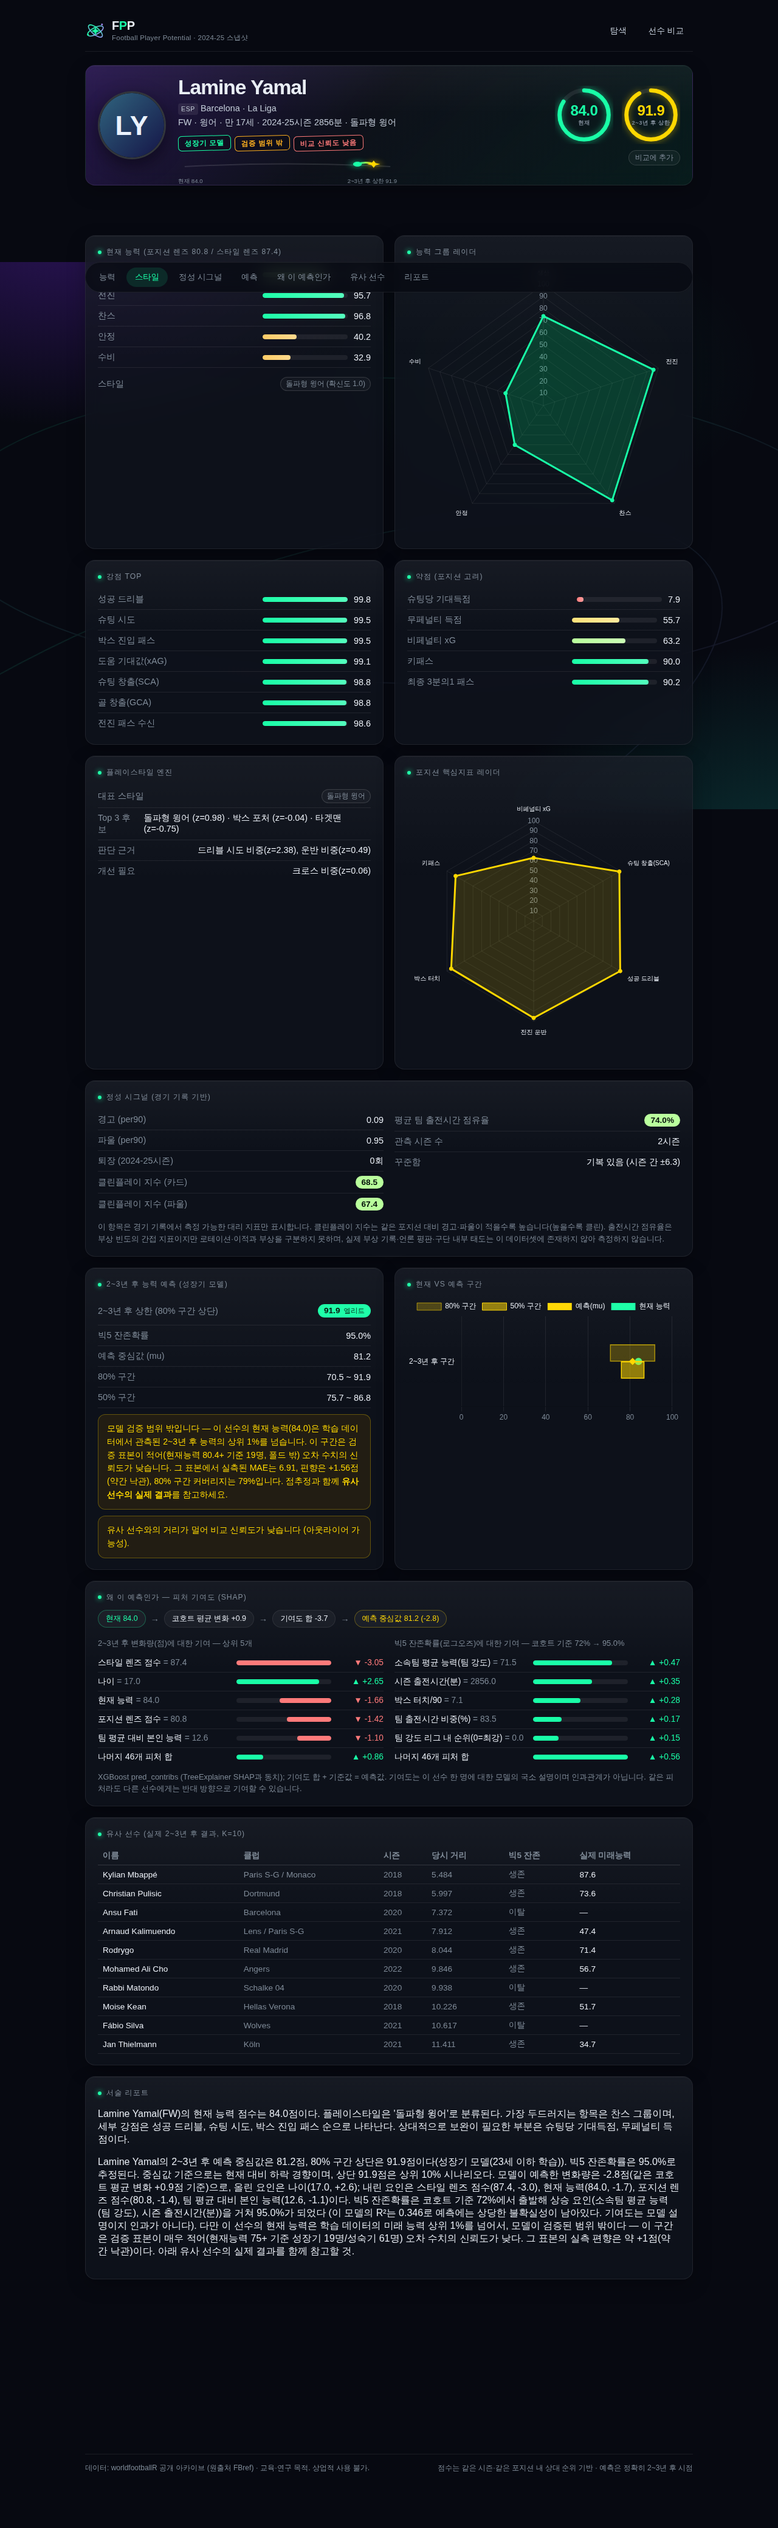
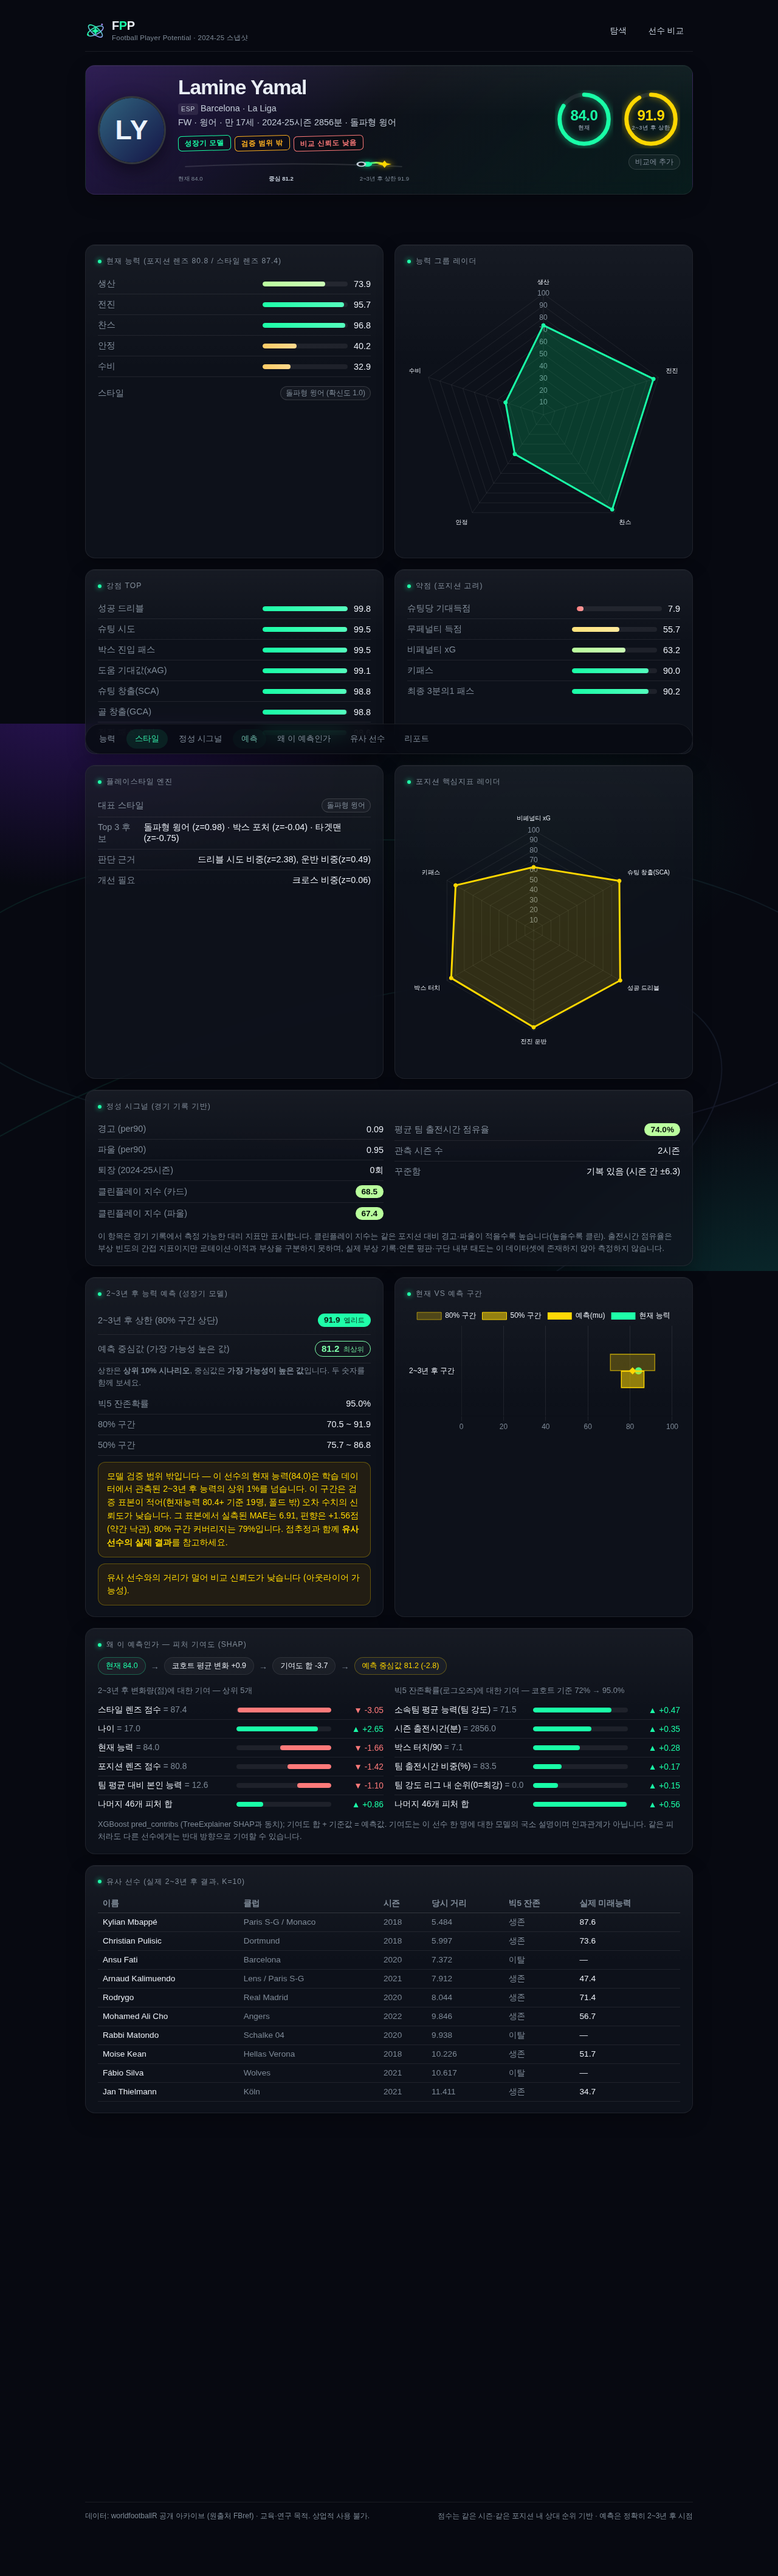
Show the predicted centre value next to the ceiling so the interval is read as a range
The ceiling was the only forecast number visible on cards and in the ranking, which
invites reading the top of the 80% interval as the prediction. The orbit gauge now
carries three markers — current, centre, ceiling — cards print the centre under the
gauge, the ranking table prints it under the ceiling badge, and the detail page gives
it an outline badge directly beneath the ceiling with one line saying which is which:
the ceiling is the top-10% scenario, the centre is the most likely value. The ceiling
keeps the visual lead; the centre is no longer missing.

Claude-Session: https://claude.ai/code/session_015oEdZs9gEVTnLhjkrU9pxa

diff --git a/docs/assets/common.js b/docs/assets/common.js
@@ -94,23 +94,35 @@ function flagChip(iso) {
   return iso ? `<span class="flag"><span class="iso">${iso}</span></span>` : "";
 }
 
-// ── 궤도 게이지: 현재(초록 점) → 2~3년 후 상한(금색 별) 을 한 궤도 위에 ──
+// ── 궤도 게이지: 현재(초록 점) → 중심값(속 빈 원) → 2~3년 후 상한(금색 별) ──
+// 상한만 보고 판단하지 않도록 중심값(가장 가능성 높은 값)을 같은 궤도 위에 함께 찍는다.
 function orbitGaugeHtml(now, fut, opts) {
   const o = opts || {};
+  const mu = o.mu === null || o.mu === undefined ? null : o.mu;
   const W = 200, H = 26, y = 14;
   const x = (v) => 6 + Math.max(0, Math.min(100, v ?? 0)) / 100 * (W - 12);
   const hasFut = fut !== null && fut !== undefined;
   const a = x(now), b = hasFut ? x(fut) : a;
   const lo = Math.min(a, b), hi = Math.max(a, b);
+  const aria = `현재 ${fmt1(now)}${mu !== null ? `, 예측 중심값 ${fmt1(mu)}` : ""}${hasFut ? `, 2~3년 후 상한 ${fmt1(fut)}` : ""}`;
+  let lbls = "";
+  if (o.labels !== false) {
+    const mid = mu !== null ? `<span class="mid">중심 ${fmt1(mu)}</span>` : "";
+    // "mu-only": 카드처럼 현재·상한이 이미 큰 숫자로 있는 곳에서는 중심값만 덧붙인다.
+    lbls = o.labels === "mu-only"
+      ? (mu !== null ? `<div class="lbls mu-only">${mid}</div>` : "")
+      : `<div class="lbls"><span>현재 ${fmt1(now)}</span>${mid}<span>${hasFut ? `2~3년 후 상한 ${fmt1(fut)}` : "예측 없음"}</span></div>`;
+  }
   return `
-    <div class="orbit-gauge" role="img" aria-label="현재 ${fmt1(now)}${hasFut ? `, 2~3년 후 상한 ${fmt1(fut)}` : ""}">
+    <div class="orbit-gauge" role="img" aria-label="${aria}">
       <svg viewBox="0 0 ${W} ${H}" preserveAspectRatio="none">
         <path class="track" d="M6 ${y} Q ${W / 2} ${y - 9} ${W - 6} ${y}"/>
         ${hasFut ? `<path class="arc" d="M${lo} ${y - 4} Q ${(lo + hi) / 2} ${y - 9} ${hi} ${y - 4}"/>` : ""}
         <circle class="dot-now" cx="${a}" cy="${y - 4}" r="4"/>
+        ${mu !== null ? `<circle class="dot-mu" cx="${x(mu)}" cy="${y - 4}" r="3.4"><title>예측 중심값 ${fmt1(mu)}</title></circle>` : ""}
         ${hasFut ? `<path class="dot-fut" transform="translate(${b} ${y - 4})" d="M0 -6 L1.8 -1.8 L6 0 L1.8 1.8 L0 6 L-1.8 1.8 L-6 0 L-1.8 -1.8 Z"/>` : ""}
       </svg>
-      ${o.labels === false ? "" : `<div class="lbls"><span>현재 ${fmt1(now)}</span><span>${hasFut ? `2~3년 후 상한 ${fmt1(fut)}` : "예측 없음"}</span></div>`}
+      ${lbls}
     </div>`;
 }
 
@@ -140,7 +152,7 @@ function playerCardHtml(p, roleLabelFn) {
           <span class="lbl">현재</span><span class="val g">${fmt1(p.ability)}</span><span class="tier">${tierText(p.ability)}</span>
         </div>
         <button type="button" class="btn-mini pc-cmp" data-cmp-id="${p.fbref_id}" data-cmp-name="${p.name}" aria-pressed="false">비교</button>
-        <div class="pc-num" title="2~3년 후 능력의 80% 신뢰구간 상단 — 최댓값이 아니라 상위 10% 시나리오">
+        <div class="pc-num" title="2~3년 후 능력의 80% 신뢰구간 상단 — 최댓값이 아니라 상위 10% 시나리오. 가장 가능성이 높은 값은 아래 '중심'입니다.">
           <span class="lbl">2~3년 후 상한</span><span class="val ${futVal != null ? "y" : "n"}">${futVal != null ? fmt1(futVal) : "—"}</span><span class="tier">${futVal != null ? tierText(futVal) : "예측 없음"}</span>
         </div>
       </div>
@@ -148,7 +160,7 @@ function playerCardHtml(p, roleLabelFn) {
       <div class="pc-name">${p.name}</div>
       <div class="pc-meta">${flagChip(p.nation)}<b>${p.pos_primary}</b>${role ? `<span>${role}</span>` : ""}<span>· ${p.age ?? "—"}세</span></div>
       <div class="pc-meta"><span>${p.squad || "—"}</span></div>
-      <div class="pc-orbit">${orbitGaugeHtml(p.ability, futVal, { labels: false })}</div>
+      <div class="pc-orbit">${orbitGaugeHtml(p.ability, futVal, { mu: p.mu, labels: p.mu != null ? "mu-only" : false })}</div>
       ${tags.length ? `<div class="pc-tags">${tags.join("")}</div>` : ""}
     </a>`;
 }

diff --git a/docs/assets/app.js b/docs/assets/app.js
@@ -8,7 +8,7 @@ const SORT_MODES = {
 };
 const SORT_HINTS = {
   ability: "",
-  ceiling: "예측 대상만 표시됩니다. 80% 신뢰구간의 상단값이며, 실제 계산된 구간입니다(임의로 올린 숫자가 아님). 예측 시점은 '커리어 전성기'가 아니라 정확히 2~3년 후입니다.",
+  ceiling: "예측 대상만 표시됩니다. 80% 신뢰구간의 상단값이며, 실제 계산된 구간입니다(임의로 올린 숫자가 아님). 상한은 상위 10% 시나리오이고, 함께 표시되는 <b>중심값이 가장 가능성 높은 값</b>입니다. 예측 시점은 '커리어 전성기'가 아니라 정확히 2~3년 후입니다.",
   headroom: "2~3년 후 상한(80% 구간 상단)에서 현재 능력을 뺀 값입니다. 값이 클수록 모델이 현재보다 더 올라갈 여지가 있다고 보는 선수입니다.",
 };
 const AGE_BANDS = {
@@ -64,7 +64,11 @@ function valueCell(p, mode) {
     const t = v > 5 ? "상승 여지 큼" : v > 0 ? "상승 여지" : v > -3 ? "유지" : "하락 위험";
     return `<span class="badge ${deltaCls(v)}" aria-label="상승 여력 ${sign}${fmt1(v)}, ${t}" title="${t}">${sign}${fmt1(v)}<span class="tier">${t}</span></span>`;
   }
-  return mode === "ceiling" ? scoreBadge(p.ceiling, "2~3년 후 상한") : scoreBadge(p.ability, "현재능력");
+  if (mode === "ceiling") {
+    return scoreBadge(p.ceiling, "2~3년 후 상한")
+      + (p.mu != null ? `<div class="sub-val" title="예측 중심값 — 가장 가능성이 높은 값">중심 ${fmt1(p.mu)}</div>` : "");
+  }
+  return scoreBadge(p.ability, "현재능력");
 }
 function roleLabel(code) {
   return META && META.role_labels && code ? META.role_labels[code] || code : (code || "");
@@ -159,7 +163,7 @@ function applyStateToControls() {
   });
   const hintEl = document.getElementById("sortHint");
   hintEl.style.display = SORT_HINTS[state.sort] ? "block" : "none";
-  hintEl.textContent = SORT_HINTS[state.sort];
+  hintEl.innerHTML = SORT_HINTS[state.sort];
   for (const [k, id] of Object.entries(FILTER_IDS)) document.getElementById(id).value = state[k];
   document.querySelectorAll(".view-btn").forEach((b) => {
     const on = b.dataset.view === state.view;
@@ -225,7 +229,7 @@ Promise.all([fetch("data/index.json").then((r) => r.json()), fetch("data/meta.js
       ? ` (${meta.target_year}시즌은 데이터 수집 시점상 부분 시즌이라, 원래 기준(${meta.original_pred_min_minutes}분)을 실제 관측된 최대 출전시간(${meta.season_max_minutes}분) 대비 동일 비율로 환산했습니다.)`
       : "";
     document.getElementById("eligibilityHint").innerHTML =
-      `현재능력 점수는 전체 ${meta.n_players.toLocaleString()}명에게 제공됩니다. 카드의 <b>2~3년 후 상한</b>은 80% 신뢰구간의 상단(상위 10% 시나리오)이며 최댓값이 아닙니다. 예측은 <b>2~3년 후 시점</b>의 능력이며(커리어 전성기가 아님), ` +
+      `현재능력 점수는 전체 ${meta.n_players.toLocaleString()}명에게 제공됩니다. 카드의 <b>2~3년 후 상한</b>은 80% 신뢰구간의 상단(상위 10% 시나리오)이며 최댓값이 아닙니다. 카드 아래 <b>중심</b>이 가장 가능성 높은 값이니 두 숫자를 함께 보세요. 예측은 <b>2~3년 후 시점</b>의 능력이며(커리어 전성기가 아님), ` +
       `만 ${meta.pred_age_max}세 이하·${meta.pred_min_minutes}분 이상은 <b>성장기 모델</b>, ` +
       `만 ${meta.veteran.age_min}~${meta.veteran.age_max}세·${meta.veteran.pred_min_minutes}분 이상은 <b>성숙기 모델</b>이 적용됩니다.${partialNote}` +
       `<br>성숙기 모델이 성장기 모델보다 정확도가 높습니다 (MAE ${meta.veteran.mae} vs ${meta.u23_mae}, R² ${meta.veteran.r2} vs ${meta.u23_r2}, GroupKFold 5겹 검증).` +

diff --git a/docs/assets/style.css b/docs/assets/style.css
@@ -235,14 +235,20 @@ header.top {
 .flag .iso { font-size: 0.66rem; letter-spacing: 0.06em; padding: 1px 5px; border-radius: 4px; background: rgba(255,255,255,0.08); color: var(--ink2); }
 
 /* 궤도 게이지: 현재 → 2~3년 후 상한 (한 궤도 위의 두 점) */
-.orbit-gauge { position: relative; height: 26px; }
-.orbit-gauge svg { width: 100%; height: 100%; overflow: visible; }
+.orbit-gauge { position: relative; }
+.orbit-gauge svg { display: block; width: 100%; height: 26px; overflow: visible; }
 .orbit-gauge .track { stroke: rgba(255,255,255,0.12); stroke-width: 2; fill: none; }
 .orbit-gauge .arc { stroke: url(#gaugeGrad); stroke-width: 3; fill: none; stroke-linecap: round; }
 .orbit-gauge .dot-now { fill: var(--accent2); filter: drop-shadow(0 0 4px var(--accent2)); }
 .orbit-gauge .dot-fut { fill: var(--gold); filter: drop-shadow(0 0 4px var(--gold)); }
 .orbit-gauge .dot-fut.star { fill: none; stroke: var(--gold); stroke-width: 1.5; }
-.orbit-gauge .lbls { display: flex; justify-content: space-between; font-size: 0.6rem; color: var(--muted); margin-top: 2px; }
+.orbit-gauge .dot-mu { fill: rgba(11,14,23,0.9); stroke: var(--ink2); stroke-width: 1.6; }
+.orbit-gauge .lbls { display: flex; justify-content: space-between; gap: 4px; font-size: 0.6rem; color: var(--muted); margin-top: 2px; }
+.orbit-gauge .lbls .mid { color: var(--ink2); font-weight: 600; }
+.orbit-gauge .lbls.mu-only { justify-content: center; font-size: 0.66rem; margin-top: 3px; }
+.sub-val { font-size: 0.72rem; color: var(--ink2); margin-top: 3px; font-variant-numeric: tabular-nums; }
+/* 예측 중심값 배지 — 상한(채운 배지)보다 한 단계 약하되 충분히 눈에 띄는 아웃라인 */
+.badge.mu-badge { background: transparent; border: 1.5px solid var(--band-c, var(--ink2)); color: var(--band-c, var(--ink)); font-size: 0.95rem; }
 
 /* 원형 링 게이지 (상세 헤더) */
 .ring { position: relative; width: 96px; height: 96px; }
@@ -276,12 +282,12 @@ tr:focus-visible { outline: 2px solid var(--accent2); outline-offset: -2px; }
 .badge.tag { background: rgba(255,255,255,0.03); border: 1px solid var(--border2); color: var(--muted); font-weight: 500; }
 .badge .tier { display: none; }
 .badge.show-tier .tier, .cards .badge .tier { display: inline; margin-left: 6px; font-size: 0.72rem; opacity: 0.85; font-weight: 500; }
-.band-elite { background: var(--band-elite); }
-.band-great { background: var(--band-great); }
-.band-good  { background: var(--band-good); }
-.band-ok    { background: var(--band-ok); }
-.band-mid   { background: var(--band-mid); }
-.band-bad   { background: var(--band-bad); }
+.band-elite { background: var(--band-elite); --band-c: var(--band-elite); }
+.band-great { background: var(--band-great); --band-c: var(--band-great); }
+.band-good  { background: var(--band-good);  --band-c: var(--band-good); }
+.band-ok    { background: var(--band-ok);    --band-c: var(--band-ok); }
+.band-mid   { background: var(--band-mid);   --band-c: var(--band-mid); }
+.band-bad   { background: var(--band-bad);   --band-c: var(--band-bad); }
 
 .back-link { display: inline-block; margin-bottom: 14px; color: var(--muted); }
 .page-nav { display: flex; justify-content: space-between; gap: 12px; }

diff --git a/docs/assets/player.js b/docs/assets/player.js
@@ -113,7 +113,7 @@ function renderPlayer(p) {
         <h1>${m.player_name}</h1>
         <div class="sub">${flagChip(m.nation)} ${m.squad || "—"} · ${m.comps || "—"}<br>${m.pos_primary}${m.role ? ` · ${m.role.label}${m.role.borderline ? "(경계)" : ""}` : ""} · 만 ${m.age_years}세 · 2024-25시즌 ${m.minutes_season}분 · ${p.style.primary || "스타일 미판정"}</div>
         <div class="stamps">${stamps.join("")}</div>
-        <div style="margin-top:12px;max-width:360px;">${orbitGaugeHtml(c.ability, pred ? pred.ci80.hi : null)}</div>
+        <div style="margin-top:12px;max-width:380px;">${orbitGaugeHtml(c.ability, pred ? pred.ci80.hi : null, { mu: pred ? pred.mu : null })}</div>
       </div>
       <div class="head-right">
         <div class="rings">
@@ -248,8 +248,12 @@ function renderPlayer(p) {
             <span class="lbl">2~3년 후 상한 (80% 구간 상단)</span>
             ${scoreBadge(pred.ci80.hi, "2~3년 후 상한", "show-tier")}
           </div>
+          <div class="stat-row" style="padding:10px 0;">
+            <span class="lbl">예측 중심값 (가장 가능성 높은 값)</span>
+            ${scoreBadge(pred.mu, "예측 중심값", "show-tier mu-badge")}
+          </div>
+          <div class="hint" style="margin:2px 0 8px;">상한은 <b>상위 10% 시나리오</b>, 중심값은 <b>가장 가능성이 높은 값</b>입니다. 두 숫자를 함께 보세요.</div>
           <div class="stat-row"><span class="lbl">${survivalLabel}</span><span>${(pred.survival_prob * 100).toFixed(1)}%</span></div>
-          <div class="stat-row"><span class="lbl">예측 중심값 (mu)</span><span>${fmt1(pred.mu)}</span></div>
           <div class="stat-row"><span class="lbl">80% 구간</span><span>${fmt1(pred.ci80.lo)} ~ ${fmt1(pred.ci80.hi)}</span></div>
           <div class="stat-row"><span class="lbl">50% 구간</span><span>${fmt1(pred.ci50.lo)} ~ ${fmt1(pred.ci50.hi)}</span></div>
           ${oor ? `<div class="note" style="margin-top:10px;">모델 검증 범위 밖입니다 — 이 선수의 현재 능력(${fmt1(c.ability)})은 학습 데이터에서 관측된 2~3년 후 능력의 상위 1%를 넘습니다. ${topBandText(isGrowth)} 점추정과 함께 <b>유사 선수의 실제 결과</b>를 참고하세요.</div>` : ""}

diff --git a/docs/assets/compare.js b/docs/assets/compare.js
@@ -70,7 +70,7 @@ function headCard(p, slot) {
       <div style="flex:1;min-width:0;">
         <h2><a href="player.html?id=${m.fbref_id}">${m.player_name}</a></h2>
         <div class="sub muted small">${flagChip(m.nation)} ${m.squad || "—"} · ${m.pos_primary}${m.role ? ` (${m.role.label})` : ""} · 만 ${m.age_years}세</div>
-        <div style="margin-top:8px;">${orbitGaugeHtml(c.ability, pr ? pr.ci80.hi : null)}</div>
+        <div style="margin-top:8px;">${orbitGaugeHtml(c.ability, pr ? pr.ci80.hi : null, { mu: pr ? pr.mu : null })}</div>
       </div>
     </div>`;
 }
@@ -105,8 +105,8 @@ function render(A, B) {
           <tr><td>대표 스타일</td><td>${A.style.primary || "—"}</td><td class="diff"></td><td>${B.style.primary || "—"}</td></tr>
           ${samePos ? radarKeys.map((k) => row(mapA[k].label + " (pct)", mapA[k].percentile, mapB[k] ? mapB[k].percentile : null)).join("") : ""}
           <tr><td colspan="4" class="muted small" style="text-align:left;padding-top:12px;">2~3년 후 예측 (${pa ? (A.eligibility.kind === "growth" ? "성장기" : "성숙기") : "대상 아님"} / ${pb ? (B.eligibility.kind === "growth" ? "성장기" : "성숙기") : "대상 아님"} 모델)</td></tr>
-          ${row("예측 중심값", pa ? pa.mu : null, pb ? pb.mu : null)}
-          ${row("80% 구간 상단", pa ? pa.ci80.hi : null, pb ? pb.ci80.hi : null)}
+          ${row("예측 중심값 (가장 가능성 높은 값)", pa ? pa.mu : null, pb ? pb.mu : null)}
+          ${row("80% 구간 상단 (상위 10% 시나리오)", pa ? pa.ci80.hi : null, pb ? pb.ci80.hi : null)}
           ${row("80% 구간 하단", pa ? pa.ci80.lo : null, pb ? pb.ci80.lo : null)}
           ${row("빅5 잔존/유지 확률", pa ? pa.survival_prob : null, pb ? pb.survival_prob : null, pct)}
           ${A.eligibility.out_of_validated_range || B.eligibility.out_of_validated_range ? `<tr><td colspan="4" class="muted small" style="text-align:left;">※ ${[A, B].filter((p) => p.eligibility.out_of_validated_range).map((p) => p.meta.player_name).join(", ")}: 모델 검증 범위 밖(상세 페이지 참조)</td></tr>` : ""}
